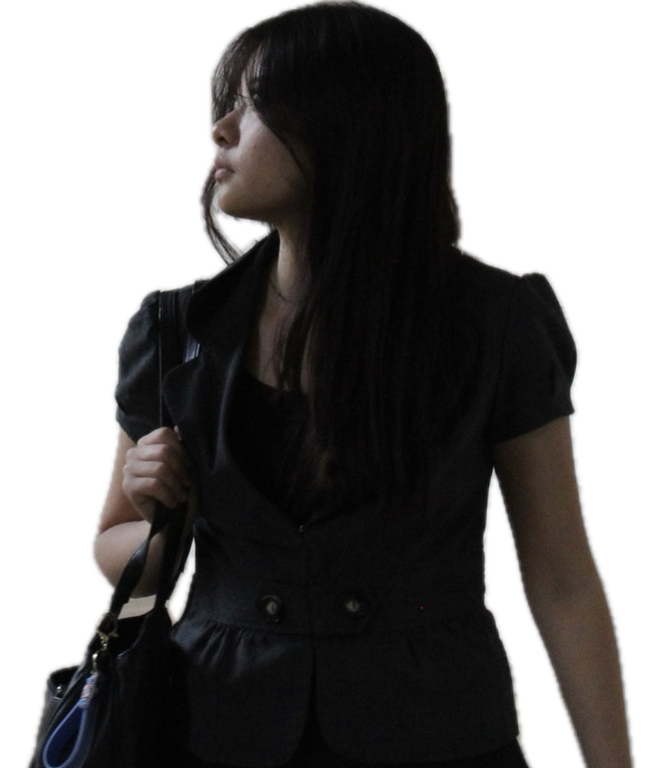
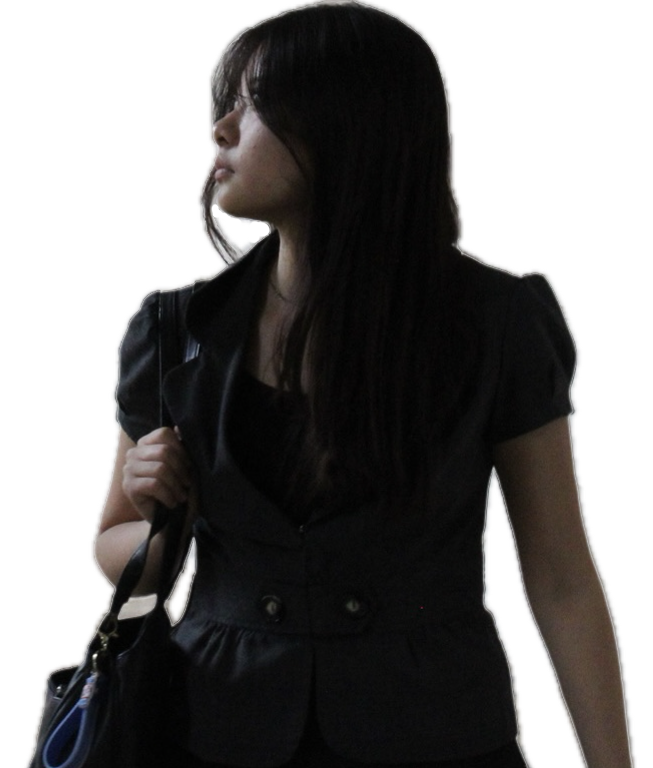
changed portrait image AGAIN

diff --git a/index.html b/index.html
@@ -238,7 +238,7 @@
           </div>
 
           <!-- Me cropped, bottom right -->
-          <img src="images/portrait_emily.png" alt="Emily Chen" class="absolute block w-[235px] sm:w-[255px] h-auto pointer-events-none select-none z-10" style="bottom: 0; right: 0;">
+          <img src="images/bro.png" alt="Emily Chen" class="absolute block w-[235px] sm:w-[255px] h-auto pointer-events-none select-none z-10" style="bottom: 0; right: 0;">
 
         </div>
       </aside>
